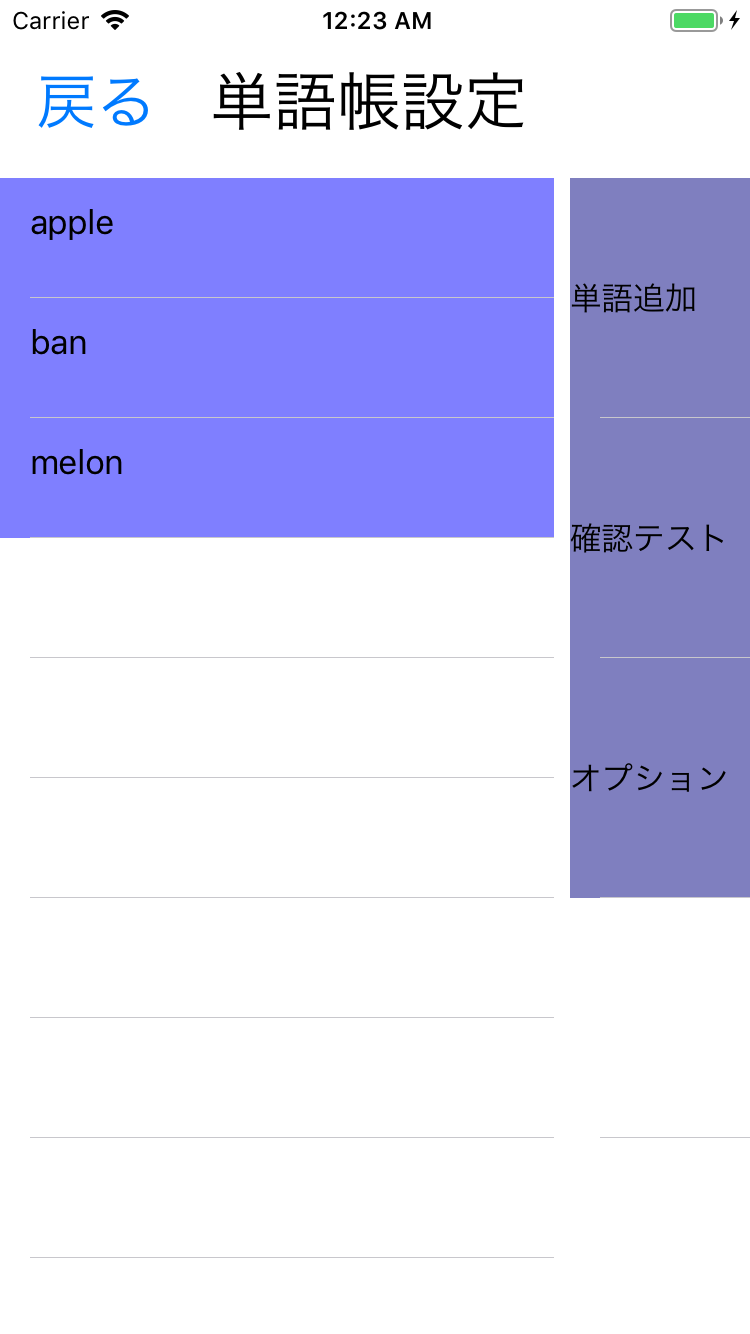
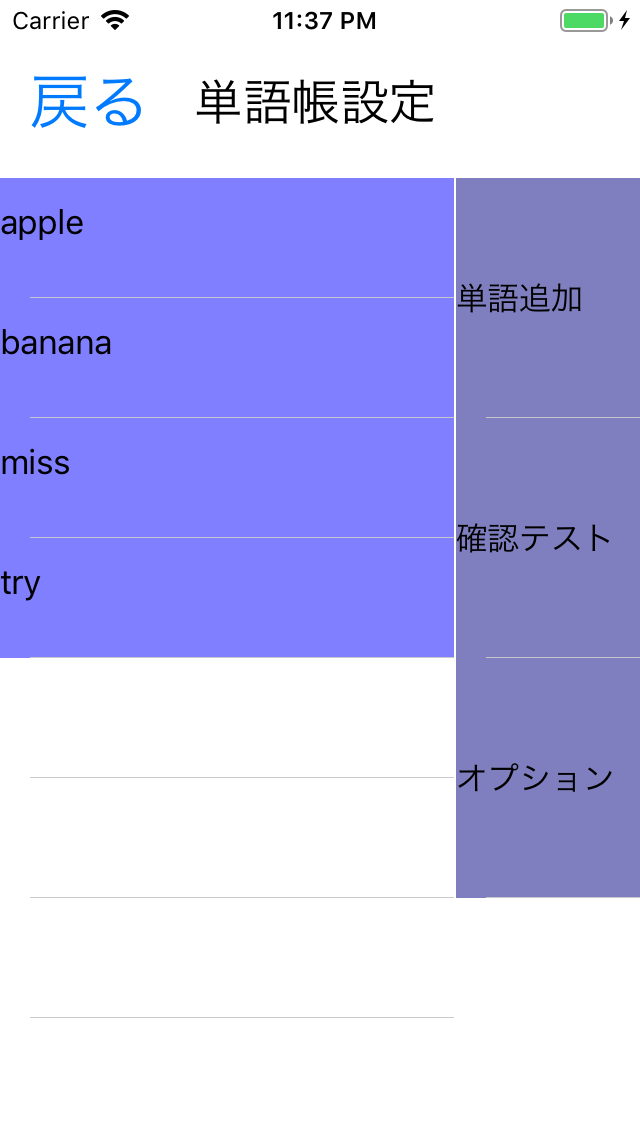
テーブル定義変更・スクレイピングした単語データを登録できるように実装（一部の単語データによっては不具合あり）

diff --git a/EnglishWords/EnglishWords/DictionaryViewController.swift b/EnglishWords/EnglishWords/DictionaryViewController.swift
@@ -124,7 +124,7 @@ class DictionaryViewController: UIViewController, UITableViewDelegate, UITableVi
                 selectedWord = wordlist[indexPath.row]
                 //Realm、既に同じ単語が登録されてないか確認
                 let realm = try! Realm()
-                let results = realm.objects(WordNote.self).filter("wordnotebook == %@ && worddata.word.wordName == %@",wnb!,selectedWord?.wordName)
+                let results = realm.objects(WordNote.self).filter("wordnotebook == %@ && word.wordName == %@",wnb!,selectedWord?.wordName)
                 if results.count > 0 {
                     //既に同じ英単語が辞書に登録されているためエラー出させる
                     showAlert(errormessage: "既に同じ英単語が辞書にあります")
@@ -135,15 +135,12 @@ class DictionaryViewController: UIViewController, UITableViewDelegate, UITableVi
                     }else{
                         maxId = cardresults.value(forKeyPath: "@max.wordidx")! as! Int
                     }
-                    let selectedWordData = realm.objects(WordData.self).filter("word.wordName == %@",selectedWord?.wordName)
-                    print(selectedWordData)
+
                     try! realm.write {
-                        for wordDataValue in selectedWordData {
                             realm.add([WordNote(value: ["wordnotebook": wnb!,
-                                                        "worddata": wordDataValue,
+                                                        "word": selectedWord,
                                                         "wordidx": maxId,
                                                         "registereddate": Date()])])
-                        }
                     }
                     performSegue(withIdentifier: "returnToConfigureWordNoteViewController",sender: nil)
                 }
@@ -195,7 +192,7 @@ class DictionaryViewController: UIViewController, UITableViewDelegate, UITableVi
             
             try! realm.write {
                 //単語帳データから削除
-                realm.delete(realm.objects(WordNote.self).filter("worddata.word.wordName == %@",selectedWord.wordName))
+                realm.delete(realm.objects(WordNote.self).filter("word.wordName == %@",selectedWord.wordName))
                 //単語データから削除
                 realm.delete(realm.objects(WordData.self).filter("word.wordName == %@",selectedWord.wordName))
                 //単語マスタから削除

diff --git a/EnglishWords/EnglishWords/AddWordFromWebViewController.swift b/EnglishWords/EnglishWords/AddWordFromWebViewController.swift
@@ -115,7 +115,7 @@ class AddWordFromWebViewController: UIViewController, UITextFieldDelegate, UITab
                                    "option1": pronounce.text!,
                                     "option2": level.text!])
         
-        //現単語帳に登録するためのば登録番号を取得
+        //現単語帳に登録するための登録番号を取得
         var maxId: Int
         let cardresults = realm.objects(WordNote.self).filter("wordnotebook == %@",wordnotebook!)
         if cardresults.count == 0 {
@@ -126,6 +126,10 @@ class AddWordFromWebViewController: UIViewController, UITextFieldDelegate, UITab
         
         try! realm.write {
             realm.add([newword])
+            realm.add([WordNote(value: ["wordnotebook": wordnotebook!,
+                                        "word": newword,
+                                        "wordidx": maxId,
+                                        "registereddate": Date()])])
         }
         var pos = self.getPartOfSpeechData(posname: poslist[0])
         for i in 0..<meanlist.count{
@@ -142,10 +146,6 @@ class AddWordFromWebViewController: UIViewController, UITextFieldDelegate, UITab
                                                    "source": "出典（未実装）",
                                                     "example": "例文(未実装)"])
                 realm.add([newworddata])
-                realm.add([WordNote(value: ["wordnotebook": wordnotebook!,
-                                            "worddata": newworddata,
-                                            "wordidx": maxId,
-                                            "registereddate": Date()])])
             }
         }
     }
@@ -186,6 +186,14 @@ class AddWordFromWebViewController: UIViewController, UITextFieldDelegate, UITab
         let fqdn = "https://ejje.weblio.jp/content/" + wordName
         Alamofire.request(fqdn).responseString { response in
             print("\(response.result.isSuccess)")
+            
+            if !response.result.isSuccess {
+                self.wordtextField.text = ""
+                self.inputword = ""
+                self.poslist.removeAll()
+                self.meanlist.removeAll()
+                self.showAlert(mes: "入力した単語\"" + wordName + "\"での検索結果はありません")
+            }
             
             if let html = response.result.value {
                 //入力した単語でスクレイピング開始・テーブル更新

diff --git a/EnglishWords/EnglishWords/AppDelegate.swift b/EnglishWords/EnglishWords/AppDelegate.swift
@@ -21,12 +21,12 @@ class AppDelegate: UIResponder, UIApplicationDelegate {
         let config = Realm.Configuration(
             // 新しいスキーマバージョンを設定します。 これは以前に使用されたものよりも大きくなければなりません
             // version（以前にスキーマバージョンを設定していない場合、バージョンは0です）。
-            schemaVersion: 2,
+            schemaVersion: 3,
             
             //スキーマのバージョンが上記のものよりも低い/を開くときに自動的に呼び出されるブロックを設定する
             migrationBlock: { migration, oldSchemaVersion in
                 //まだ何も移行していないので、oldSchemaVersion == 0
-                if (oldSchemaVersion < 2) {
+                if (oldSchemaVersion < 3) {
                     // Realmは新しいプロパティと削除されたプロパティを自動的に検出します
                     //そして自動的にディスク上のスキーマを更新する
                 }})

diff --git a/EnglishWords/EnglishWords/AddWordViewController.swift b/EnglishWords/EnglishWords/AddWordViewController.swift
@@ -132,7 +132,7 @@ class AddWordViewController: UIViewController,UIPickerViewDelegate,UIPickerViewD
                     realm.add([newword])
                     realm.add([newworddata])
                     realm.add([WordNote(value: ["wordnotebook": wordnotebook!,
-                                                "worddata": newworddata,
+                                                "word": newword,
                                                 "wordidx": maxId,
                                                 "registereddate": Date()])])
                     

diff --git a/EnglishWords/EnglishWords/WordNote.swift b/EnglishWords/EnglishWords/WordNote.swift
@@ -11,12 +11,12 @@ import RealmSwift
 
 class WordNote: Object {
     @objc dynamic var wordnotebook: WordNoteBook?
-    @objc dynamic var worddata: WordData?
+    @objc dynamic var word: Word?
     @objc dynamic var wordidx: Int = 0
     @objc dynamic var registereddate: Date = Date()
     
     
     static func ==(a: WordNote, b: WordNote) -> Bool{
-        return a.wordnotebook == b.wordnotebook && a.worddata == a.worddata
+        return a.wordnotebook == b.wordnotebook && a.word == b.word
     }
 }

diff --git a/EnglishWords/EnglishWords/ConfigureWordNoteBookViewController.swift b/EnglishWords/EnglishWords/ConfigureWordNoteBookViewController.swift
@@ -70,7 +70,7 @@ class ConfigureWordNoteBookViewController: UIViewController, UITableViewDelegate
             let oneword = wordlist[indexPath.row]
             let label1 = cell.viewWithTag(1) as! UILabel
             label1.numberOfLines = 0
-            label1.text = oneword.worddata?.word?.wordName
+            label1.text = oneword.word?.wordName
             cell.backgroundColor = UIColor(red: 0.0, green: 0.0, blue: 1.0, alpha: 0.5)
             
             return cell

diff --git a/EnglishWords/EnglishWords/ConfigureWordViewController.swift b/EnglishWords/EnglishWords/ConfigureWordViewController.swift
@@ -27,7 +27,7 @@ class ConfigureWordViewController: UIViewController, UITableViewDelegate, UITabl
         
         if(wordnote != nil){
             fromdictflag = false
-            selectedword = wordnote?.worddata?.word
+            selectedword = wordnote?.word
         }else if(selectedword != nil){
             fromdictflag = true
         }
